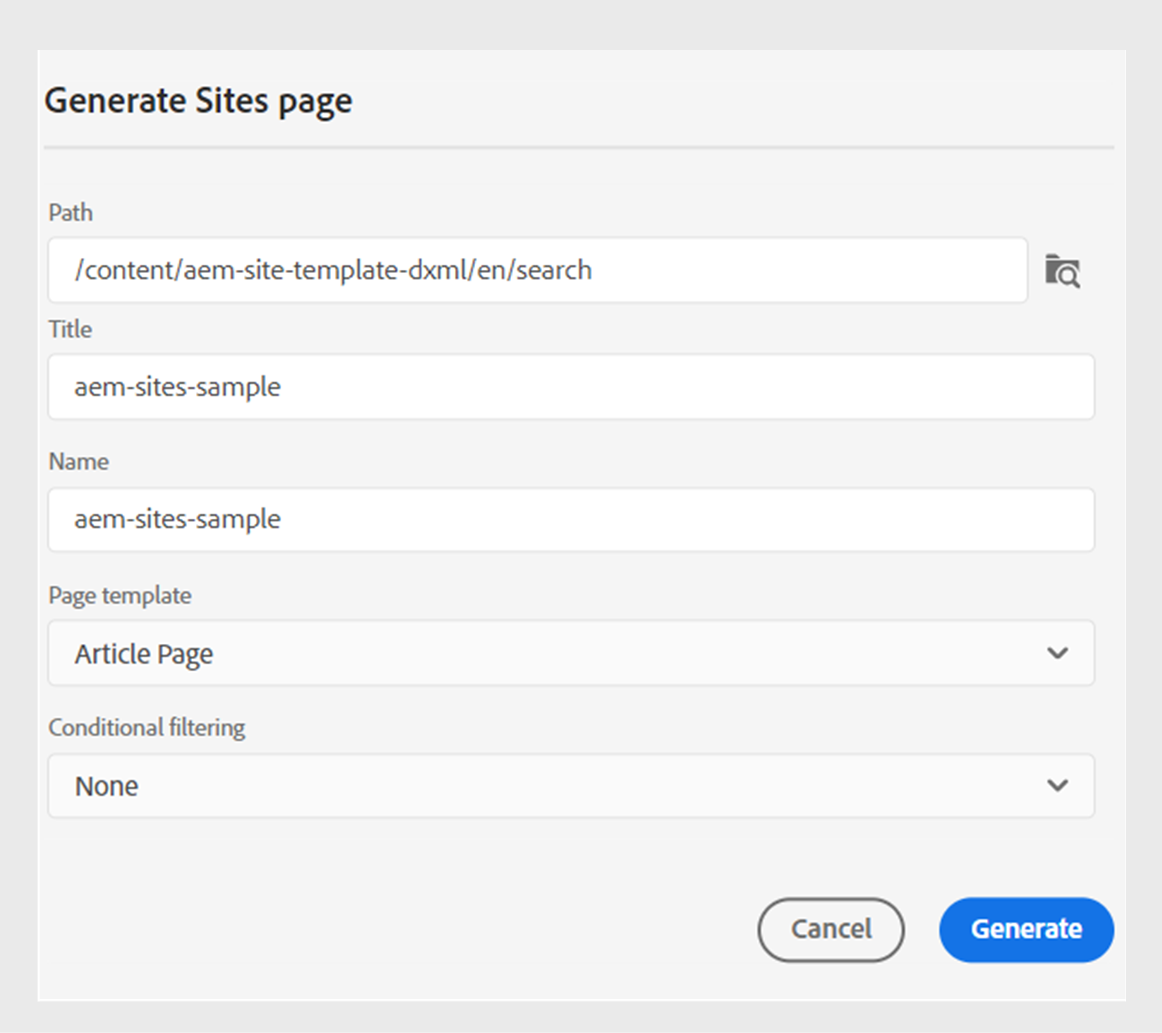
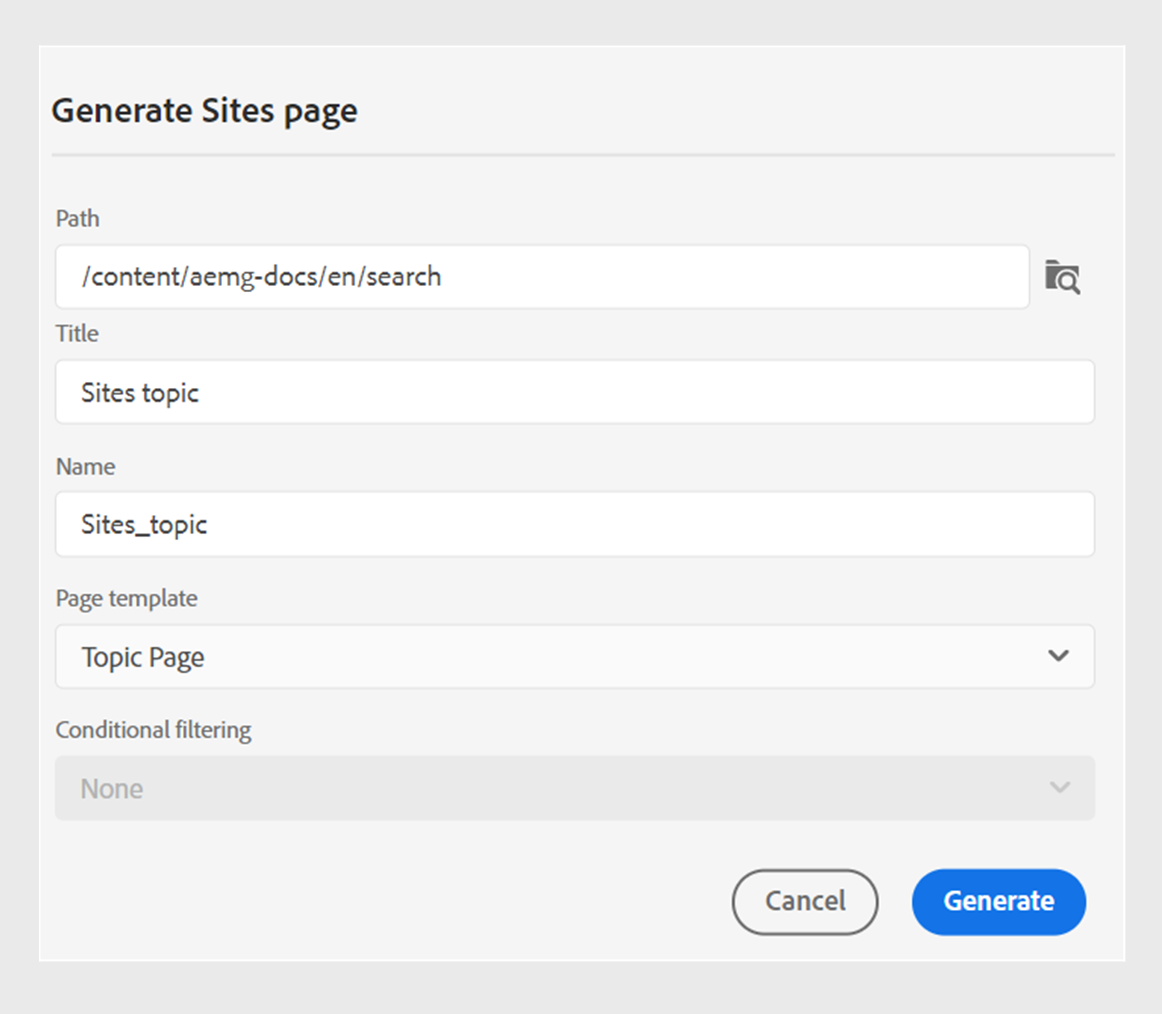
4.6 updates

diff --git a/help/product-guide/release-info/whats-new-4-6.md b/help/product-guide/release-info/whats-new-4-6.md
@@ -30,13 +30,13 @@ Learn how to [publish Experience Manager Sites pages](../user-guide/publish-aem-
 
 An Experience Fragment is a modular content unit within Adobe Experience Manager that integrates content and layout. Experience Fragments are instrumental in creating consistent and engaging experiences, which can be further reused across multiple channels. For example, you can create experience fragments for headers or footers with branding elements, promotional banners, customer testimonials, and event promotions.
 
+   ![file properties options tab](./assets/file-properties-outputs-4-6.png) {width="300" align="left"}
+*Publish and view the Experience Fragments of a topic from the **Outputs** section in the **File Properties**.*
 
 Experience Manager Guides now allows you to publish a topic or its elements to an Experience Fragment. You can create a JSON-based mapping between a topic or its elements and an Experience Fragment template.  
 
   You can also create Experience Fragment variations by using the condtion filters. 
  Learn more about how to [publish Experience Fragments](../user-guide/publish-experience-fragment.md). 
-
-
 
 
 
@@ -47,7 +47,7 @@ Experience Manager Guides also provides some helpful enhancements in Content Fra
 - Experience Manager Guides allows you to publish a topic or its elements to a content fragment.
 
  - You can publish and view the Content Fragments of a topic from the **Outputs** section in the **File Properties**.
-    ![file properties options tab](./assets/file-properties-outputs-tab-4-6.png) {width="300" align="left"}
+
 
  - You can easily create Content Fragment variations by filtering content with conditions while publishing to a Content Fragment. 
 
@@ -57,6 +57,21 @@ Now, Content Fragment publishing only replaces the mapped content instead of ove
    ![Add the fragment model and mapping details in the Publish as Content Fragment dialog](assets/content-fragment-mapping.png)
 
    For more details, view [Publish Content Fragments](../user-guide/publish-content-fragment.md). 
+
+### AEM Site preset reorganization
+The settings have been reorganized to help you quickly configure the output preset and generate the AEM Site output. 
+You can view the General, Content, and Cross map reference tabs.
+a.	General: This contains the general configurations to generate the output. You can specify the site and output path, existing output pages, delete the previously generated pages for removed topics, select the design template, retain the temporary files, and specify the post-generation workflow.
+b.	Content: This contains the different content settings. You can filter the content for publishing and select the metadata properties.
+c.	Cross map references: This lists## topics containing cross map references or xrefs to topics available in other DITA maps. It also shows the parent maps and the available presets for the cross map references.
+
+You can create the existing Adobe Experience Manager Site presets by selecting the **Use legacy component mapping** option in the New output preset dialog box.
+
+###  Cross map references from AEM Sites presets in the Web Editor
+
+The latest enhancement to Experience Manager Guides introduces cross map references in the AEM Sites presets of the Web Editor. In the Web Editor, users can specify the publishing context for linked files from other maps by selecting the AEM Site output preset of the DITA map they wish to publish.  You can specify the publishing context for a list of cross map references or xrefs to topics available in other DITA maps. For example, Topic 1 in Map A contains an xref to Topic 2, whose parent is Map B.  You can select a specific preset or the most recently published output for each source topic to generate the output. 
+
+You can also add the same topic with different publishing contexts as cross-references, providing greater flexibility and control over their content. For example, Topic 3 can be added as a cross map reference twice, and the parent map of the first link is Map B, while the parent map of the second link is Map C.
 
 
 

diff --git a/help/product-guide/user-guide/publish-aem-sites.md b/help/product-guide/user-guide/publish-aem-sites.md
@@ -8,7 +8,7 @@ role: User
 # Publish Adobe Experience Manager Sites pages
 
 
-Experience Manager Sites page refers to content published on the Adobe Experience Manager website. Experience Manager Guides allow you to publish an independent topic to a Sites page. 
+Experience Manager Sites page refers to content published on the Adobe Experience Manager website. Experience Manager Guides allow you to publish a standalone topic to a Sites page. 
 
 This feature allows you to publish a topic and its elements without creating a DITA map and the output presets. You can easily update the topic, republish the Sites page, and reuse it across different web pages. Using this feature you can easily publish stand alone articles or marketing content. 
 
@@ -24,10 +24,6 @@ To generate an Sites page, perform the following steps:
 1. Select **New Output** ![new output icon](./images/Add_icon.svg) from the **Outputs** section in the **File Properties** of a topic.
 1. Select **Sites page**.  
 
-
-   
-
-  
 
 1. In the **Generate Sites page** dialog box, fill in the following details:
         ![Add the path and template details in Generate Sites page](images/aem-sites-page-generate.png){width="500" align="left"}
